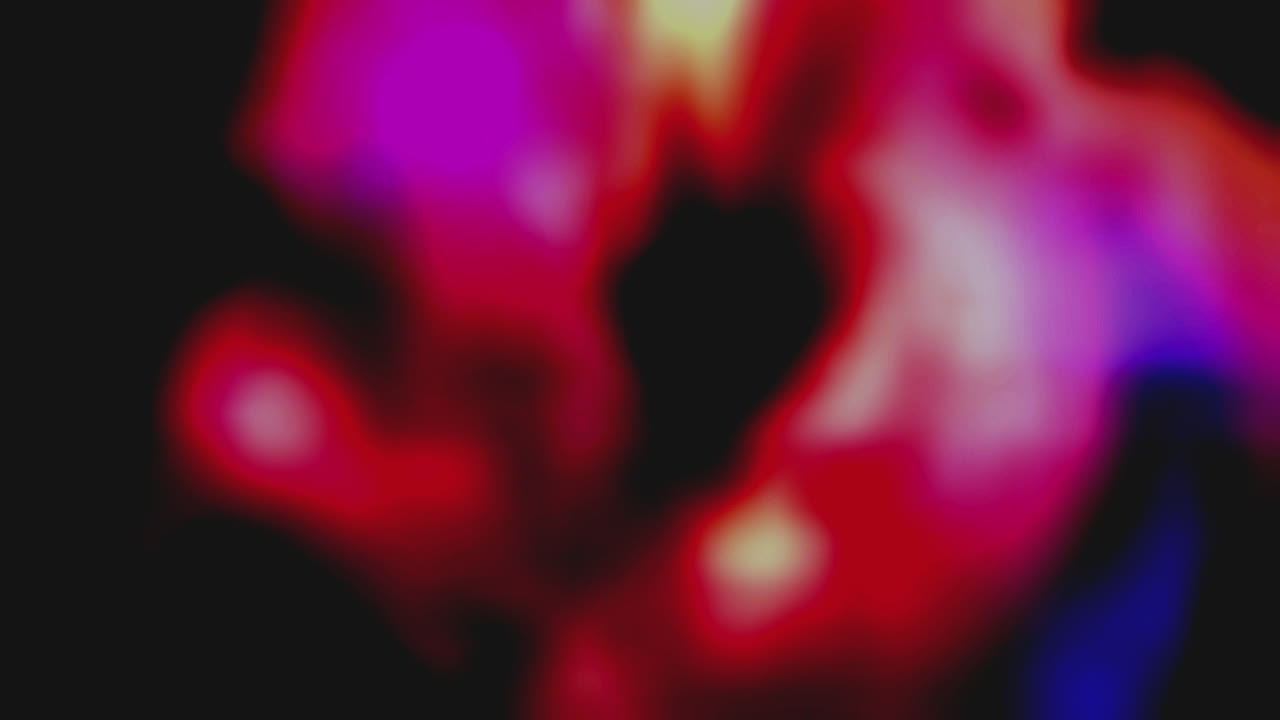
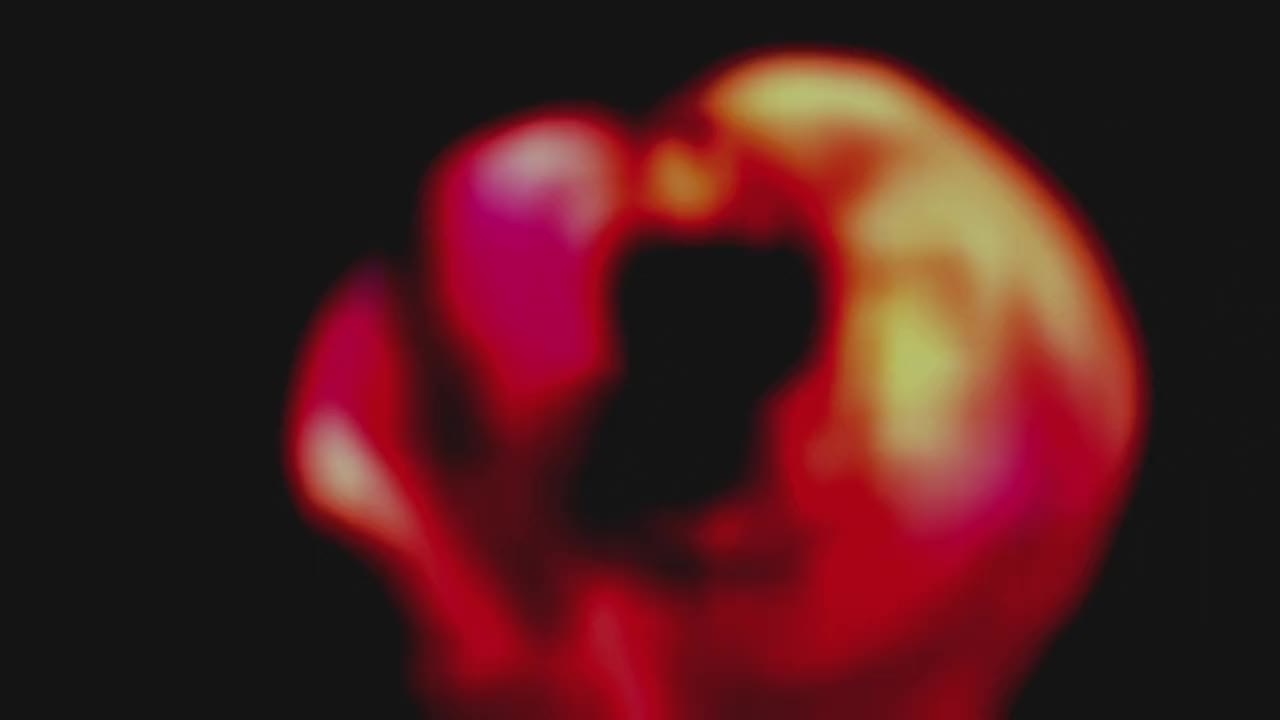
Fade the hero background in instead of popping it on first load
Preload the poster with the document, fade it in once decoded, then
crossfade the video over it once frames play. The poster is now the loop's
first frame so the hand-off is seamless (and half the size).

diff --git a/components/HeroGlitter.tsx b/components/HeroGlitter.tsx
@@ -1,6 +1,7 @@
 "use client";
 
 import { useEffect, useRef } from "react";
+import { preload } from "react-dom";
 
 /**
  * The look is baked into the video at encode time (see scripts/hero/encode-loop.sh):
@@ -9,6 +10,10 @@ import { useEffect, useRef } from "react";
  * the GPU idle. Retune by re-encoding; only the scale is still applied here.
  */
 const SCALE = 1.13;
+
+const VIDEO_SRC = "/assets/hero/glitter-loop.mp4";
+/** First frame of the loop, so the poster → video hand-off is seamless. */
+const POSTER_SRC = "/assets/hero/glitter-poster.jpg";
 
 /**
  * HeroGlitter — a treated video loop behind the hero. The source is a liquid
@@ -19,6 +24,28 @@ const SCALE = 1.13;
  */
 export default function HeroGlitter() {
   const videoRef = useRef<HTMLVideoElement>(null);
+  const posterRef = useRef<HTMLImageElement>(null);
+  // Fetch the poster with the document instead of after hydration.
+  preload(POSTER_SRC, { as: "image", fetchPriority: "high" });
+
+  // First load: the ground shows, the poster fades in as soon as it decodes,
+  // and the video fades in over it once frames are actually playing. Nothing
+  // ever pops in at full strength.
+  useEffect(() => {
+    const poster = posterRef.current;
+    const video = videoRef.current;
+    if (!poster || !video) return;
+    const showPoster = () => { poster.dataset.ready = ""; };
+    const showVideo = () => { video.dataset.ready = ""; };
+    if (poster.complete && poster.naturalWidth > 0) showPoster();
+    else poster.addEventListener("load", showPoster, { once: true });
+    if (!video.paused && video.readyState >= 3) showVideo();
+    else video.addEventListener("playing", showVideo, { once: true });
+    return () => {
+      poster.removeEventListener("load", showPoster);
+      video.removeEventListener("playing", showVideo);
+    };
+  }, []);
 
   useEffect(() => {
     const video = videoRef.current;
@@ -44,13 +71,17 @@ export default function HeroGlitter() {
               pointer-events: none; background: #141413;
               contain: strict;
             }
-            .hg-video {
+            .hg-poster, .hg-video {
               position: absolute; inset: 0; width: 100%; height: 100%;
               object-fit: cover; object-position: center;
               transform: scale(var(--hg-scale));
-              will-change: transform;
+              will-change: transform, opacity;
               animation: hg-drift 40s ease-in-out infinite alternate;
+              opacity: 0;
             }
+            .hg-poster { transition: opacity 450ms ease-out; }
+            .hg-video { transition: opacity 900ms ease-in-out; }
+            .hg-poster[data-ready], .hg-video[data-ready] { opacity: 1; }
             @keyframes hg-drift {
               from { transform: scale(var(--hg-scale)) translate3d(-1.5%, -1%, 0); }
               to { transform: scale(var(--hg-scale)) translate3d(1.5%, 1%, 0); }
@@ -72,17 +103,18 @@ export default function HeroGlitter() {
               background-size: 160px 160px;
             }
             @media (prefers-reduced-motion: reduce) {
-              .hg-video { animation: none; }
+              .hg-poster, .hg-video { animation: none; transition: none; }
             }
           `,
         }}
       />
       <div className="hg-root" aria-hidden="true">
+        {/* eslint-disable-next-line @next/next/no-img-element */}
+        <img ref={posterRef} className="hg-poster" src={POSTER_SRC} alt="" decoding="async" fetchPriority="high" />
         <video
           ref={videoRef}
           className="hg-video"
-          src="/assets/hero/glitter-loop.mp4"
-          poster="/assets/hero/glitter-poster.jpg"
+          src={VIDEO_SRC}
           autoPlay
           muted
           loop
@@ -91,6 +123,9 @@ export default function HeroGlitter() {
           disablePictureInPicture
           tabIndex={-1}
         />
+        <noscript>
+          <style>{`.hg-poster { opacity: 1; }`}</style>
+        </noscript>
         <div className="hg-vignette" />
         <div className="hg-grain" />
       </div>
